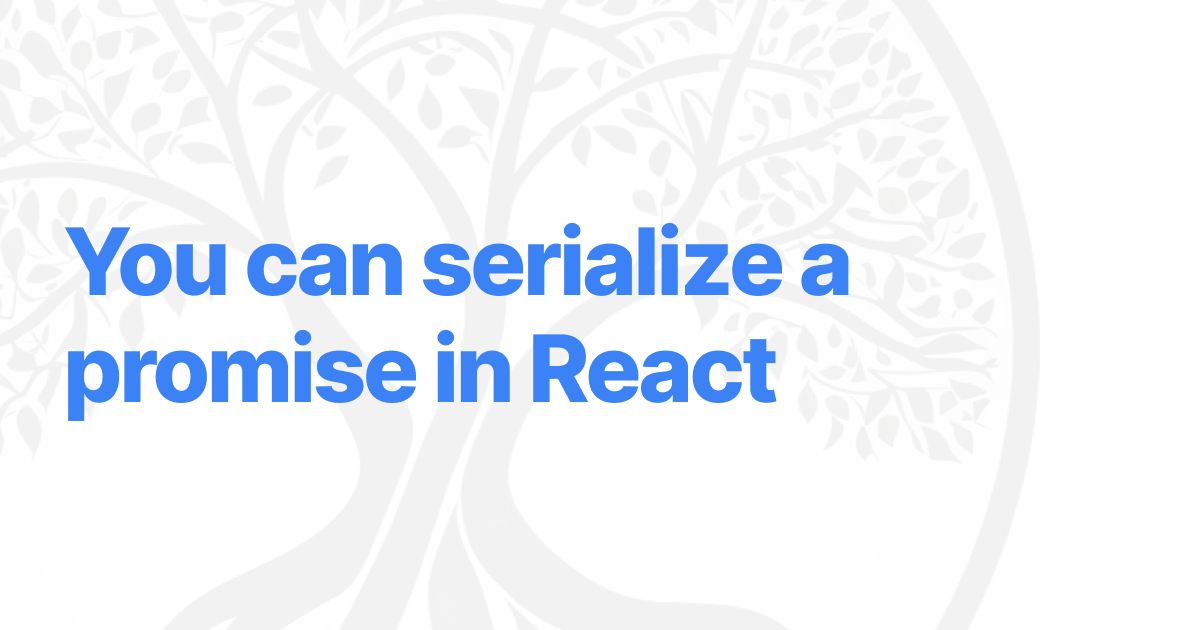
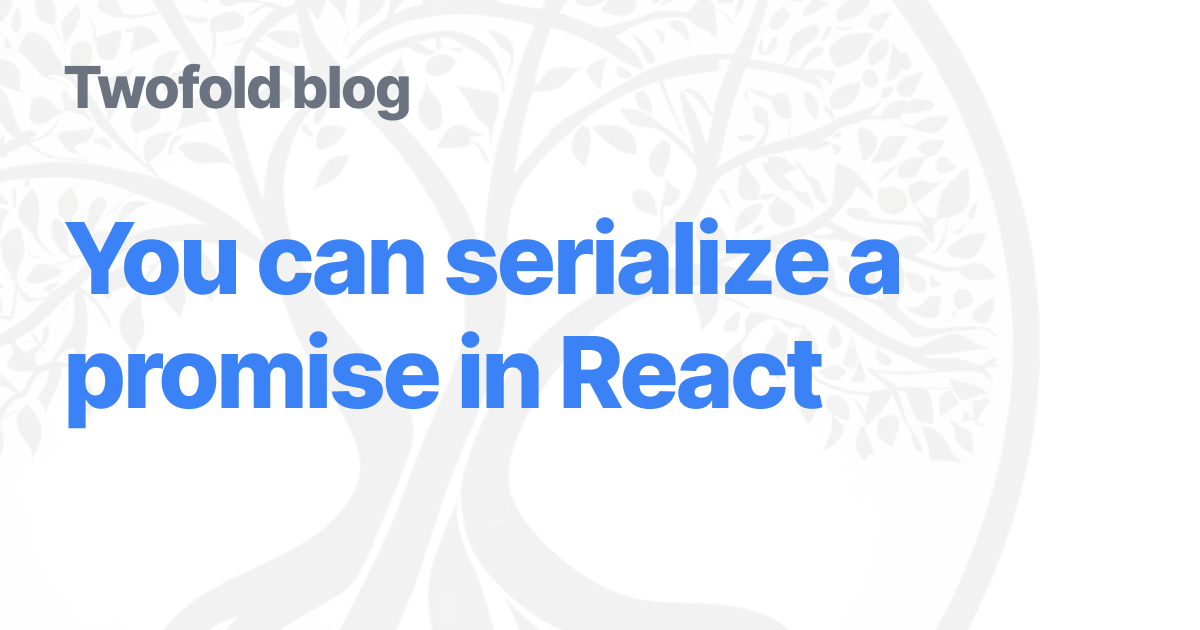
blog post fixes (#80)

Changed region(s): [[0.0617, 0.3317, 0.7708, 0.4825], [0.0617, 0.5127, 0.7092, 0.6937], [0.0308, 0.0905, 0.3392, 0.2111]]

diff --git a/sites/website/app/pages/(main)/docs/components/create-twofold-app.tsx b/sites/website/app/pages/(main)/docs/components/create-twofold-app.tsx
@@ -2,48 +2,50 @@ import { ReactNode } from "react";
 
 export function CreateTwofoldApp() {
   return (
-    <div className="not-prose relative my-6 rounded-md bg-[#24292e] p-4 text-sm">
-      <pre
-        className="text-[13px] leading-[1.7] text-[#e1e4e8] subpixel-antialiased"
-        tabIndex={0}
-      >
-        <code>
-          <Line>pnpm create twofold-app@latest</Line>
+    <div className="not-prose relative my-6 overflow-x-scroll rounded-md bg-[#24292e] text-sm">
+      <div className="relative inline-block w-max min-w-full p-4">
+        <pre
+          className="text-[13px] leading-[1.7] text-[#e1e4e8] subpixel-antialiased"
+          tabIndex={0}
+        >
+          <code>
+            <Line>pnpm create twofold-app@latest</Line>
 
-          <Line />
+            <Line />
 
-          <Output type="info">Welcome to the Twofold app generator!</Output>
+            <Output type="info">Welcome to the Twofold app generator!</Output>
 
-          <Line />
+            <Line />
 
-          <Output type="question">
-            What is the name of your app?{"  "}
-            <span className="font-bold">my-app</span>
-          </Output>
+            <Output type="question">
+              What is the name of your app?{"  "}
+              <span className="font-bold">my-app</span>
+            </Output>
 
-          <Line />
+            <Line />
 
-          <Output type="pending">Setting up a new Twofold app...</Output>
-          <Output type="complete">App created!</Output>
-          <Output type="pending">
-            Installing dependencies. This may take a minute...
-          </Output>
-          <Output type="complete">Dependencies installed!</Output>
-          <Output type="pending">Initializing git repository...</Output>
-          <Output type="complete">Git repository created!</Output>
+            <Output type="pending">Setting up a new Twofold app...</Output>
+            <Output type="complete">App created!</Output>
+            <Output type="pending">
+              Installing dependencies. This may take a minute...
+            </Output>
+            <Output type="complete">Dependencies installed!</Output>
+            <Output type="pending">Initializing git repository...</Output>
+            <Output type="complete">Git repository created!</Output>
 
-          <Line />
+            <Line />
 
-          <Output type="success">All set!</Output>
+            <Output type="success">All set!</Output>
 
-          <Line />
+            <Line />
 
-          <Output type="info">App installed at: ./my-app/</Output>
-          <Output type="info">Run app: cd my-app && pnpm dev</Output>
-        </code>
-      </pre>
+            <Output type="info">App installed at: ./my-app/</Output>
+            <Output type="info">Run app: cd my-app && pnpm dev</Output>
+          </code>
+        </pre>
 
-      <div className="pointer-events-none absolute inset-0 rounded-md ring ring-white/20 ring-inset" />
+        <div className="pointer-events-none absolute inset-0 rounded-md ring ring-white/20 ring-inset" />
+      </div>
     </div>
   );
 }

diff --git a/sites/website/app/pages/(main)/blog/components/footnote.tsx b/sites/website/app/pages/(main)/blog/components/footnote.tsx
@@ -1,7 +1,7 @@
 "use client";
 
 import { ReactNode } from "react";
-import * as HoverCard from "@radix-ui/react-hover-card";
+import * as Popover from "@radix-ui/react-popover";
 
 export function Footnote({
   id,
@@ -11,20 +11,20 @@ export function Footnote({
   children: ReactNode;
 }) {
   return (
-    <HoverCard.Root openDelay={200} closeDelay={200}>
-      <HoverCard.Trigger className="not-prose mx-px mb-px inline-block rounded bg-gray-200 px-1 py-0.5 align-text-top text-xs leading-none text-gray-900">
+    <Popover.Root>
+      <Popover.Trigger className="not-prose mx-px mb-px inline-block rounded bg-gray-200 px-1 py-0.5 align-text-top text-xs leading-none text-gray-900">
         {id}
-      </HoverCard.Trigger>
-      <HoverCard.Portal>
-        <HoverCard.Content
+      </Popover.Trigger>
+      <Popover.Portal>
+        <Popover.Content
           side="bottom"
           sideOffset={8}
           collisionPadding={20}
           className="not-prose max-w-xs rounded-md border border-gray-200 bg-white p-4 text-sm text-gray-900 shadow [&_a]:text-blue-500 [&_a]:underline [&_a]:decoration-blue-300"
         >
           {children}
-        </HoverCard.Content>
-      </HoverCard.Portal>
-    </HoverCard.Root>
+        </Popover.Content>
+      </Popover.Portal>
+    </Popover.Root>
   );
 }

diff --git a/sites/website/app/pages/(main)/docs/components/deployment-grid.tsx b/sites/website/app/pages/(main)/docs/components/deployment-grid.tsx
@@ -1,5 +1,5 @@
 import Link from "@twofold/framework/link";
-import { ComponentProps, ReactNode, JSX } from "react";
+import { ComponentProps, JSX } from "react";
 
 export function DeploymentGrid() {
   return (
@@ -37,7 +37,7 @@ function LinkItem({
   return (
     <Link
       href={href}
-      className="group flex aspect-[2.2/1] h-full w-full flex-col items-center justify-center rounded-lg px-4 ring-[0.5px] shadow ring-gray-200 transition-all ring-inset hover:-translate-y-0.5 hover:shadow-md sm:aspect-[16/9]"
+      className="group flex aspect-[2.2/1] h-full w-full transform-gpu flex-col items-center justify-center rounded-lg px-4 ring-[0.5px] shadow ring-gray-200 transition-all ring-inset hover:-translate-y-0.5 hover:shadow-md sm:aspect-[16/9]"
     >
       <div className="flex flex-col items-center justify-center">
         <Icon className="h-10 max-w-12 text-gray-700 transition-colors group-hover:text-gray-900" />

diff --git a/sites/website/app/pages/(main)/blog/you-can-serialize-a-promise-in-react/stream-store.ts b/sites/website/app/pages/(main)/blog/you-can-serialize-a-promise-in-react/stream-store.ts
@@ -136,3 +136,21 @@ export function generateId() {
     "",
   );
 }
+
+// polyfill safari to make streams iterable
+if (!ReadableStream.prototype[Symbol.asyncIterator]) {
+  ReadableStream.prototype[Symbol.asyncIterator] =
+    async function* (): AsyncGenerator<any, undefined, unknown> {
+      const reader = this.getReader();
+      try {
+        while (true) {
+          const { done, value } = await reader.read();
+          if (done) break;
+          yield value;
+        }
+        return undefined;
+      } finally {
+        reader.releaseLock();
+      }
+    };
+}

diff --git a/sites/website/app/pages/(main)/blog/you-can-serialize-a-promise-in-react/demo5.tsx b/sites/website/app/pages/(main)/blog/you-can-serialize-a-promise-in-react/demo5.tsx
@@ -46,7 +46,7 @@ export function Demo5({ children }: { children: ReactNode }) {
     <div className="not-prose relative">
       <div>{children}</div>
       <div className="relative flex min-h-[158px] items-center justify-center rounded-b-md border-x-2 border-b-2 border-gray-200">
-        {isPending ? (
+        {isPending && value === null ? (
           <div className="text-gray-500">
             Waiting for the promise to deserialize...
           </div>

diff --git a/sites/website/app/pages/(main)/blog/$slug.page.tsx b/sites/website/app/pages/(main)/blog/$slug.page.tsx
@@ -56,7 +56,7 @@ export default async function DocPage({ params, request }: PageProps<"slug">) {
           <div className="flex items-center space-x-2 font-medium">
             <Link
               href={`/blog`}
-              className="text-sm text-gray-500 hover:underline active:text-blue-600"
+              className="text-sm text-gray-500 hover:underline active:text-gray-600"
             >
               Blog
             </Link>

diff --git a/sites/website/app/pages/(main)/blog/you-can-serialize-a-promise-in-react/demo3.tsx b/sites/website/app/pages/(main)/blog/you-can-serialize-a-promise-in-react/demo3.tsx
@@ -129,7 +129,7 @@ export function Demo3({ children }: { children: ReactNode }) {
       <div>{children}</div>
       <div
         className={clsx(
-          "relative flex min-h-[228px] rounded-b-md border-x-2 border-b-2 border-gray-200",
+          "relative flex min-h-[250px] rounded-b-md border-x-2 border-b-2 border-gray-200 md:min-h-[228px]",
           state?.log ? "" : "items-center justify-center",
         )}
       >

diff --git a/sites/website/app/pages/(main)/blog/you-can-serialize-a-promise-in-react/demo1.tsx b/sites/website/app/pages/(main)/blog/you-can-serialize-a-promise-in-react/demo1.tsx
@@ -23,7 +23,7 @@ export function Demo1({ children }: { children: ReactNode }) {
       <div className="relative flex min-h-[158px] items-center justify-center rounded-b-md border-x-2 border-b-2 border-gray-200">
         {jsx ? (
           <div>
-            {jsx}
+            <div className="flex items-center justify-center px-8">{jsx}</div>
 
             <form
               className="absolute top-1.5 right-3"

diff --git a/sites/website/app/pages/(main)/blog/layout.tsx b/sites/website/app/pages/(main)/blog/layout.tsx
@@ -12,6 +12,7 @@ export default function BlogLayout({ children }: { children: ReactNode }) {
       <link
         href="https://fonts.googleapis.com/css2?family=Merriweather:ital,opsz,wght@0,18..144,300..900;1,18..144,300..900&display=swap"
         rel="stylesheet"
+        precedence="default"
       />
       <div className="mx-auto mt-8 max-w-prose px-6 pb-24 md:px-0">
         {children}

diff --git a/sites/website/app/pages/(main)/docs/philosophy/dont-use-twofold.md b/sites/website/app/pages/(main)/docs/philosophy/dont-use-twofold.md
@@ -22,7 +22,7 @@ If you want to focus on other areas of application development instead of learni
 
 ## Breaking changes
 
-Due to the beta nature of the ideas in Twofold it is very likely that there will be breaking changes in the future. This means that if you build an application with Twofold today, you may need to rewrite parts of it in the future to keep up with the latest changes.
+This project is new and it's likely going to have many breaking changes in the future. If you build an application with Twofold today, you may need to rewrite parts of it to keep up with the latest features.
 
 ## My opinions
 

diff --git a/sites/website/app/pages/(main)/docs/guides/getting-started.md b/sites/website/app/pages/(main)/docs/guides/getting-started.md
@@ -1,6 +1,6 @@
 # Getting started
 
-Welcome to the Twofold documentation! This guide will help you setup your first request-response based RSC application.
+Welcome to the Twofold documentation! This guide will help you setup your first application.
 
 ## What's Twofold?
 
